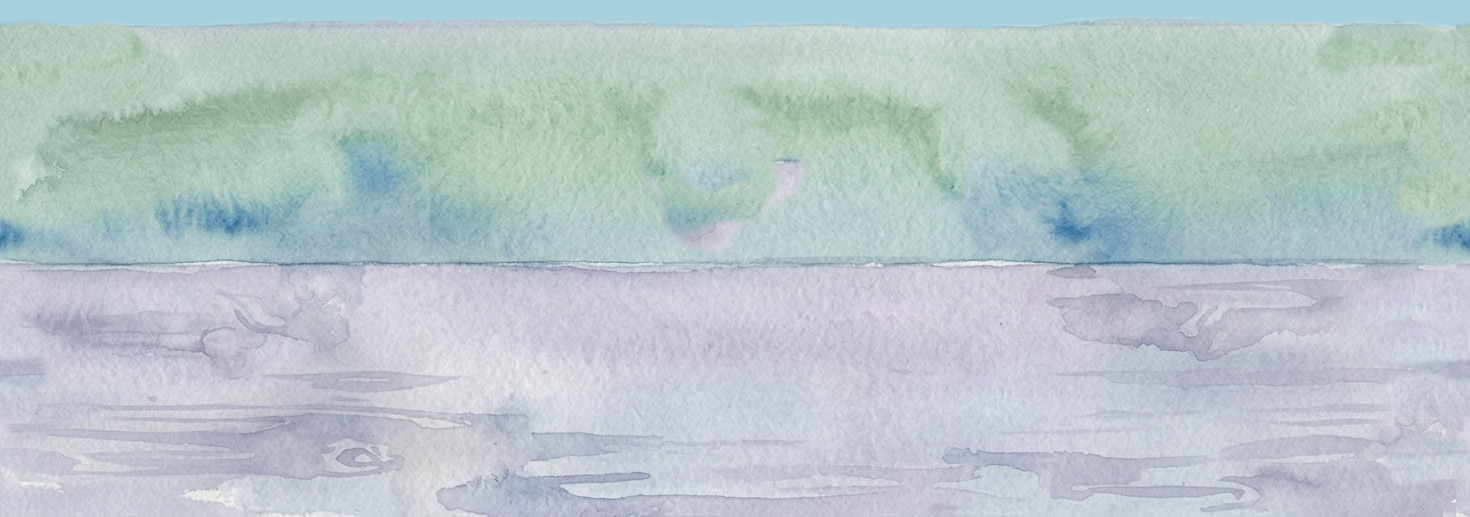
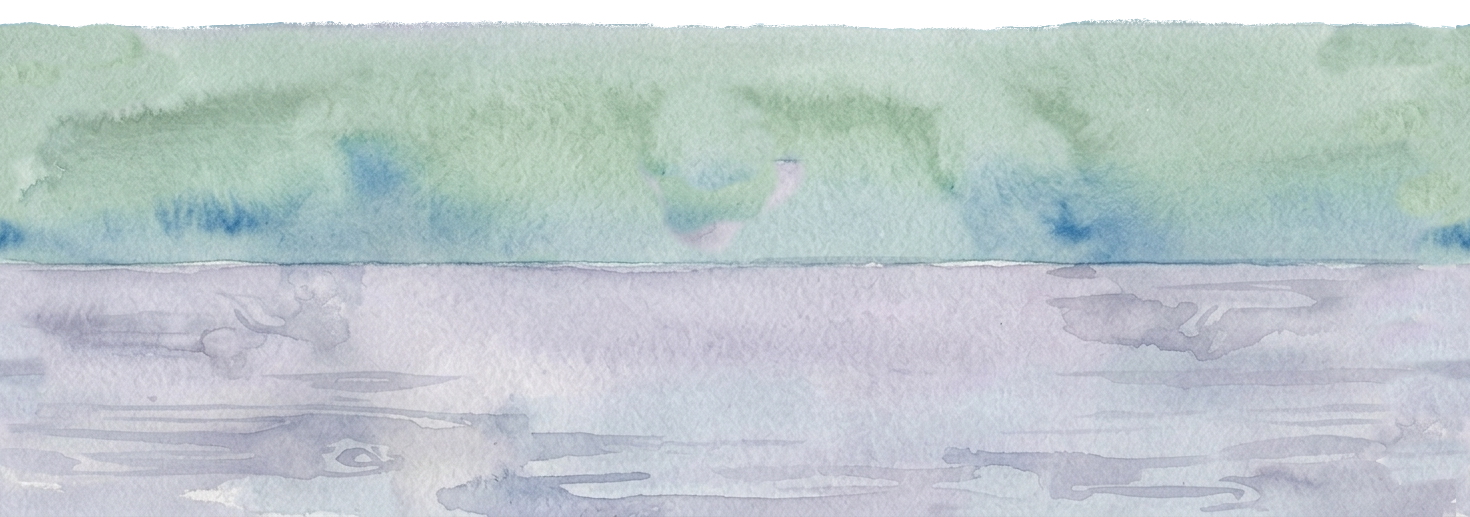
fixed line on sky

Changed region(s): [[0.0, 0.0, 1.0, 0.0619]]

diff --git a/game.js b/game.js
@@ -1,3 +1,5 @@
+const skyCanvas = document.getElementById("skyCanvas");
+const skyCtx = skyCanvas?.getContext("2d");
 const canvas = document.getElementById("gameCanvas");
 const ctx = canvas?.getContext("2d");
 const textArea = document.getElementById("writer");
@@ -8,6 +10,8 @@ const gameOverOverlay = document.getElementById("game-over-overlay");
 const gameWinOverlay = document.getElementById("game-win-overlay");
 
 if (
+  !skyCanvas ||
+  !skyCtx ||
   !canvas ||
   !ctx ||
   !textArea ||
@@ -135,16 +139,18 @@ function updateClouds() {
   }
 }
 
-function drawClouds() {
+function drawClouds(targetCtx) {
   for (let i = 0; i < clouds.length; i += 1) {
     const cloud = clouds[i];
     if (!cloud.image.complete) continue;
-    ctx.drawImage(cloud.image, cloud.x, cloud.y, cloud.width, cloud.height);
+    targetCtx.drawImage(cloud.image, cloud.x, cloud.y, cloud.width, cloud.height);
   }
 }
 
 // 1. Setup & Sizing
 function resize() {
+  skyCanvas.width = skyCanvas.clientWidth;
+  skyCanvas.height = skyCanvas.clientHeight;
   canvas.width = canvas.clientWidth;
   canvas.height = canvas.clientHeight;
   // Set starting position to far right
@@ -331,21 +337,21 @@ function update() {
 // 4. Drawing the Visuals
 function draw() {
   ctx.clearRect(0, 0, canvas.width, canvas.height);
-  const deskOverlapRaw = getComputedStyle(
-    document.documentElement,
-  ).getPropertyValue("--desk-overlap");
-  const deskOverlap = Number.parseInt(deskOverlapRaw, 10) || 90;
-  const visibleSkyHeight = Math.max(0, canvas.height - deskOverlap);
+  const visibleSkyHeight = skyCanvas.height;
   const groundY = canvas.height - 50;
   const bookHeight = player.height;
 
-  // Draw Sky
-  ctx.fillStyle = "#a8d1df";
-  ctx.fillRect(0, 0, canvas.width, visibleSkyHeight);
+  // Draw Sky + Clouds (background layer)
+  skyCtx.clearRect(0, 0, skyCanvas.width, skyCanvas.height);
+  skyCtx.fillStyle = "#a8d1df";
+  skyCtx.fillRect(0, 0, skyCanvas.width, visibleSkyHeight);
 
-  // Draw moving clouds behind hazards/player
+  // Draw moving clouds behind player
   updateClouds();
-  drawClouds();
+  drawClouds(skyCtx);
+
+  // Draw foreground gameplay layer (book)
+  ctx.clearRect(0, 0, canvas.width, canvas.height);
 
   // Draw Player (The Book)
   if (bookWalkFramesLoaded > 0) {

diff --git a/style.css b/style.css
@@ -16,6 +16,7 @@ html {
 }
 
 #app-container {
+    position: relative;
     display: flex;
     flex-direction: column;
     min-height: 100dvh;
@@ -27,7 +28,23 @@ html {
     height: clamp(220px, 32vh, 380px);
     background: transparent;
     position: relative;
+    z-index: 1;
+}
+
+#skyCanvas {
+    display: block;
+    width: 100%;
+    height: 100%;
+}
+
+#game-foreground {
+    position: absolute;
+    top: 0;
+    left: 0;
+    right: 0;
+    height: clamp(220px, 32vh, 380px);
     z-index: 3;
+    pointer-events: none;
 }
 
 #gameCanvas {

diff --git a/index.html b/index.html
@@ -9,6 +9,9 @@
 <body>
     <div id="app-container">
         <div id="game-container">
+            <canvas id="skyCanvas"></canvas>
+        </div>
+        <div id="game-foreground" aria-hidden="true">
             <canvas id="gameCanvas"></canvas>
             <img src="assets/RIP.png" id="rip-overlay" alt="" aria-hidden="true">
         </div>
